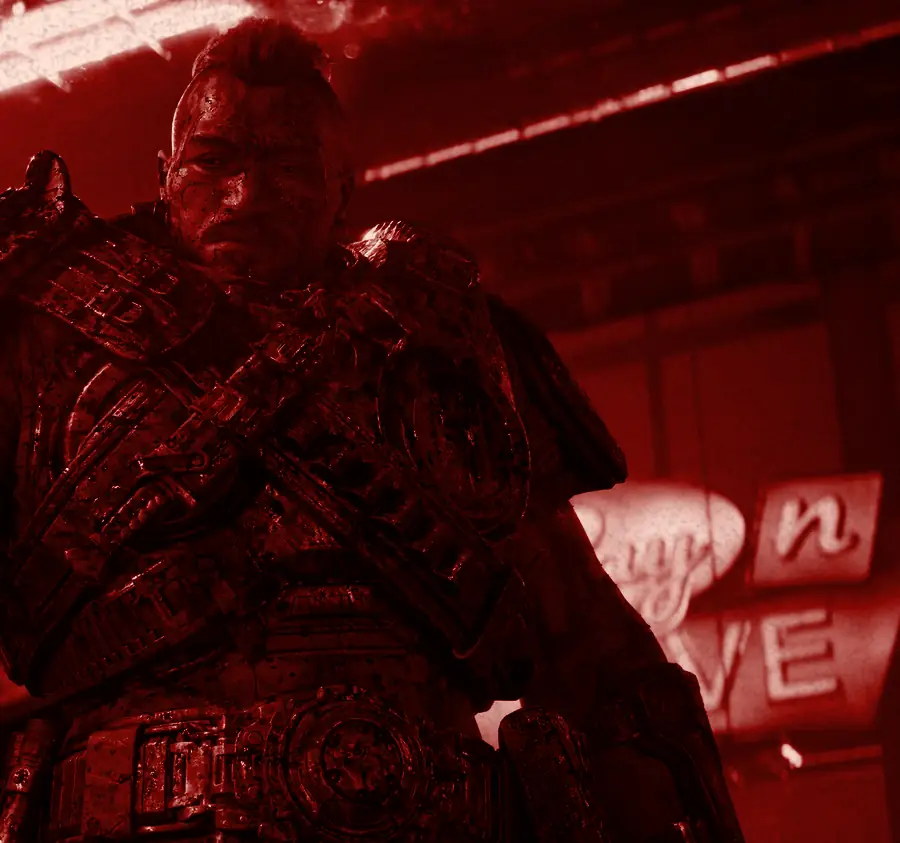
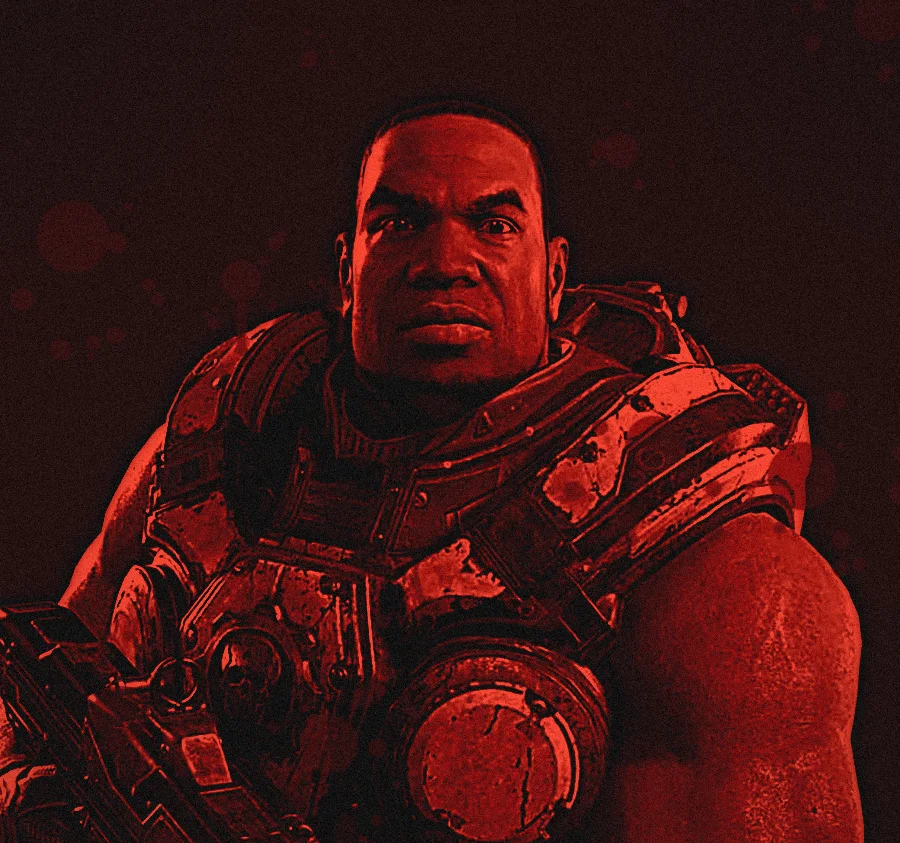
Members: distinct Gears 1 UE renders (Marcus, Dom, Baird, Cole) in red duotone; drop clip placeholder subtitle

diff --git a/app.js b/app.js
@@ -2,20 +2,20 @@
 const M=[
 {id:'mono',n:'MONO',r:'El primero en entrar',a:'Avatar de batalla: Marcus',s:[['Asalto',95],['Instinto',90],['Brutalidad',99]],b:['Cuando el escuadrón duda, Mono ya está del otro lado de la línea, con el Lancer rugiendo y la cara pintada de lo que dejó atrás. No espera órdenes. Él es la orden.','Su risa por el radio es la señal de que empezó la carnicería. Dicen que jamás ha retrocedido un paso; si alguna vez lo hizo, fue para tomar impulso.','Donde cae Mono, se abre un camino de lodo y metal para los demás.']},
 {id:'replica',n:'REPLICA',r:'El eco implacable',a:'Avatar de batalla: Dom',s:[['Precisión',97],['Adaptación',99],['Paciencia',88]],b:['Lo que ve, lo aprende. Lo que aprende, lo perfecciona. Replica estudia al enemigo en silencio hasta convertirse en su sombra, y luego le devuelve cada golpe, multiplicado.','Nadie le ha ganado dos veces con el mismo truco. A la segunda, el truco ya le pertenece, y el que lo inventó ya no se levanta.','Un eco que no se apaga: cuanto más fuerte golpeas, más fuerte regresa.']},
-{id:'terrific',n:'TERRIFIC',r:'El muro de hierro',a:'Avatar de batalla: Cole',s:[['Resistencia',99],['Táctica',94],['Lealtad',100]],b:['Cuando todo arde, Terrific es lo único que sigue en pie. Escudo, estratega y ancla: el que sostiene la posición mientras el mundo se cae a pedazos alrededor.','No persigue la gloria del último disparo. Persigue que todos regresen a casa, aunque sea cargados. Por eso su nombre se pronuncia con respeto en cada trinchera.','Mientras Terrific respire, la línea no se rompe.']},
-{id:'spawn',n:'SPAWN',r:'El que siempre regresa',a:'Avatar de batalla: Baird',s:[['Voluntad',100],['Sigilo',91],['Remontada',98]],b:['Lo han dado por muerto mil veces. Mil veces se ha levantado del barro, escupiendo sangre y sonriendo. Spawn es la prueba de que en Team Seriously nadie se queda abajo para siempre.','Aparece donde nadie lo espera, en el segundo exacto, y convierte una derrota segura en una historia que se contará durante años.','Las cenizas no lo detienen. De ellas vuelve a nacer.']}];
-$('#squad').innerHTML=M.map(m=>`<button class="card reveal" data-id="${m.id}"><img src="img/${m.id}.webp" alt="${m.n} — ${m.a}" loading="lazy"><div class="meta"><div class="role">${m.r}</div><h3>${m.n}</h3><div class="more">VER EXPEDIENTE  →</div></div></button>`).join('');
+{id:'terrific',n:'TERRIFIC',r:'El muro de hierro',a:'Avatar de batalla: Baird',s:[['Resistencia',99],['Táctica',94],['Lealtad',100]],b:['Cuando todo arde, Terrific es lo único que sigue en pie. Escudo, estratega y ancla: el que sostiene la posición mientras el mundo se cae a pedazos alrededor.','No persigue la gloria del último disparo. Persigue que todos regresen a casa, aunque sea cargados. Por eso su nombre se pronuncia con respeto en cada trinchera.','Mientras Terrific respire, la línea no se rompe.']},
+{id:'spawn',n:'SPAWN',r:'El que siempre regresa',a:'Avatar de batalla: Cole',s:[['Voluntad',100],['Sigilo',91],['Remontada',98]],b:['Lo han dado por muerto mil veces. Mil veces se ha levantado del barro, escupiendo sangre y sonriendo. Spawn es la prueba de que en Team Seriously nadie se queda abajo para siempre.','Aparece donde nadie lo espera, en el segundo exacto, y convierte una derrota segura en una historia que se contará durante años.','Las cenizas no lo detienen. De ellas vuelve a nacer.']}];
+$('#squad').innerHTML=M.map(m=>`<button class="card reveal" data-id="${m.id}"><img src="img/${m.id}.webp?v=8" alt="${m.n} — ${m.a}" loading="lazy"><div class="meta"><div class="role">${m.r}</div><h3>${m.n}</h3><div class="more">VER EXPEDIENTE  →</div></div></button>`).join('');
 const dlg=$('#modal'),body=$('#modal-body');const open=h=>{body.innerHTML=h;dlg.showModal()};
 dlg.querySelector('.x').onclick=()=>dlg.close();dlg.addEventListener('click',e=>{if(e.target===dlg)dlg.close()});
 dlg.addEventListener('close',()=>{body.innerHTML='';if(location.hash.startsWith('#m-'))history.replaceState(null,'','#escuadron')});
-const openM=id=>{const m=M.find(x=>x.id===id);if(!m)return;open(`<div class="dossier"><img src="img/${m.id}.webp" alt="${m.a}"><div class="txt"><div class="role">Expediente clasificado · ${m.a}</div><div class="modal-h">${m.n}</div><div class="role">${m.r}</div>${m.b.map(p=>`<p>${p}</p>`).join('')}<div class="stats">${m.s.map(([k,v])=>`<div class="stat"><span>${k}</span><span>${v}</span><i><b style="width:${v}%"></b></i></div>`).join('')}</div></div></div>`);history.replaceState(null,'','#m-'+id)};
+const openM=id=>{const m=M.find(x=>x.id===id);if(!m)return;open(`<div class="dossier"><img src="img/${m.id}.webp?v=8" alt="${m.a}"><div class="txt"><div class="role">Expediente clasificado · ${m.a}</div><div class="modal-h">${m.n}</div><div class="role">${m.r}</div>${m.b.map(p=>`<p>${p}</p>`).join('')}<div class="stats">${m.s.map(([k,v])=>`<div class="stat"><span>${k}</span><span>${v}</span><i><b style="width:${v}%"></b></i></div>`).join('')}</div></div></div>`);history.replaceState(null,'','#m-'+id)};
 document.querySelectorAll('.card').forEach(c=>c.onclick=()=>openM(c.dataset.id));if(location.hash.startsWith('#m-'))openM(location.hash.slice(3));
 const R=C.redes||{};document.querySelectorAll('[data-red]').forEach(el=>{const u=(R[el.dataset.red]||'').trim();if(u){el.href=u;el.hidden=false}else if(!el.classList.contains('btn'))el.hidden=true});
 {const st=document.getElementById('sidetab');if(st){st.addEventListener('click',e=>{if(!st.classList.contains('open')&&matchMedia('(hover:none)').matches){e.preventDefault();st.classList.add('open')}});document.addEventListener('click',e=>{if(!st.contains(e.target))st.classList.remove('open')})}}
 const host=location.hostname||'localhost';
 $('#streams').innerHTML=M.map(m=>{const ch=((C.miembros[m.id]||{}).twitch||'').trim();
  const scr=ch?`<div class="screen"><iframe src="https://player.twitch.tv/?channel=${encodeURIComponent(ch)}&parent=${host}&muted=true&autoplay=false" allowfullscreen title="Twitch ${m.n}" loading="lazy"></iframe></div>`
- :`<div class="screen soon" style="background-image:url(img/${m.id}.webp)"><div><div class="soon-t">PRÓXIMAMENTE</div><div class="soon-s">SEÑAL DE ${m.n} · EN ESPERA</div></div></div>`;
+ :`<div class="screen soon" style="background-image:url(img/${m.id}.webp?v=8)"><div><div class="soon-t">PRÓXIMAMENTE</div><div class="soon-s">SEÑAL DE ${m.n} · EN ESPERA</div></div></div>`;
  return `<div class="stream reveal"><h3><i></i>${m.n}</h3>${scr}</div>`}).join('');
 const G=[['Gears of War: E-Day','El regreso al origen','eday'],['Dota 2','Ancestros en guerra','dota'],['Counter-Strike 2','Plantar · Defender','cs'],['League of Legends','La Grieta nos llama','lol'],['Apex Legends','Campeones de la arena','apex']];
 $('#games').innerHTML=G.map(([t,s,i])=>`<div class="game reveal"><img src="img/g-${i}.webp" alt="${t}" loading="lazy"><div class="meta"><p>${s}</p><h3>${t}</h3></div></div>`).join('');
@@ -24,7 +24,7 @@ const tw=u=>{const m=u.match(/clips\.twitch\.tv\/([\w-]+)/)||u.match(/twitch\.tv
 const embed=u=>{let id;if(id=yt(u))return`<iframe src="https://www.youtube-nocookie.com/embed/${id}?autoplay=1" allow="autoplay;fullscreen" allowfullscreen></iframe>`;if(id=tw(u))return`<iframe src="https://clips.twitch.tv/embed?clip=${id}&parent=${host}&autoplay=true" allowfullscreen></iframe>`;return`<video src="${u}" controls autoplay style="width:100%;height:100%"></video>`};
 const clips=(C.clips||[]).filter(c=>c&&c.url);
 let h=clips.map((c,i)=>{const id=yt(c.url);const th=id?`style="background:url(https://i.ytimg.com/vi/${id}/hqdefault.jpg) center/cover"`:'';return`<button class="clip reveal" data-i="${i}"><div class="screen" ${th}>▶</div><div class="cap"><b>${c.titulo||'Clip'}</b><span>${c.autor||''}</span></div></button>`}).join('');
-for(let k=0;k<Math.max(1,4-clips.length);k++)h+=`<div class="clip empty reveal"><div class="screen">+</div><div class="cap"><b>SUBE TU CLIP</b><span>Agrégalo en data/config.js (ver README)</span></div></div>`;
+for(let k=0;k<Math.max(1,4-clips.length);k++)h+=`<div class="clip empty reveal"><div class="screen">+</div><div class="cap"><b>SUBE TU CLIP</b></div></div>`;
 $('#clips').innerHTML=h;document.querySelectorAll('.clip[data-i]').forEach(b=>b.onclick=()=>{const c=clips[b.dataset.i];open(`<div class="clipbox"><div class="modal-h">${c.titulo||''}</div><div class="screen" style="margin-top:1rem">${embed(c.url)}</div></div>`)});
 const io=new IntersectionObserver(es=>es.forEach(e=>{if(e.isIntersecting){e.target.classList.add('in');io.unobserve(e.target)}}),{threshold:.1});
 document.querySelectorAll('.reveal').forEach((el,i)=>{el.style.transitionDelay=(i%4)*90+'ms';io.observe(el)});

diff --git a/index.html b/index.html
@@ -65,4 +65,4 @@
  <p class="small">2006 — SIEMPRE · Sitio tributo no oficial. Gears of War es marca de Microsoft / The Coalition. Imágenes de juegos propiedad de sus respectivos dueños.</p></div></footer>
 
 <dialog id="modal"><button class="x" aria-label="Cerrar">✕</button><div id="modal-body"></div></dialog>
-<script src="data/config.js"></script><script src="app.js"></script></body></html>
+<script src="data/config.js"></script><script src="app.js?v=8"></script></body></html>
